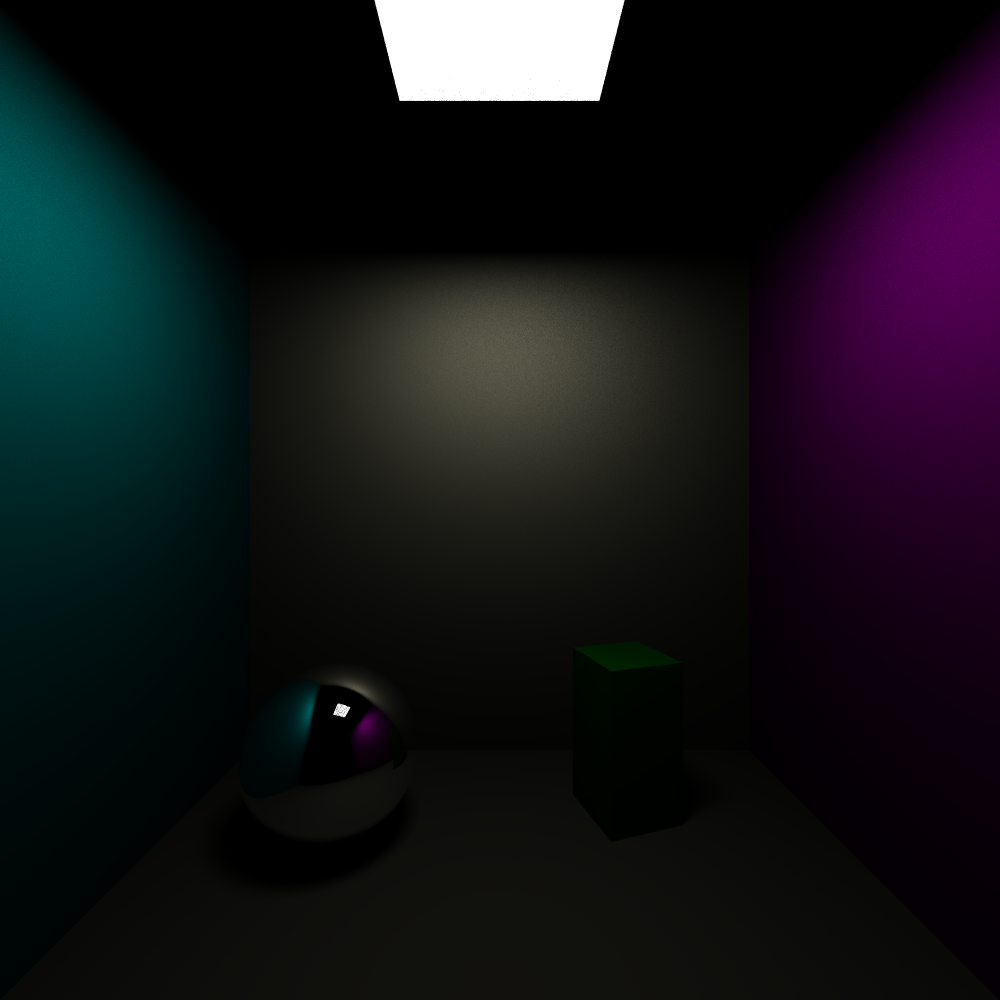
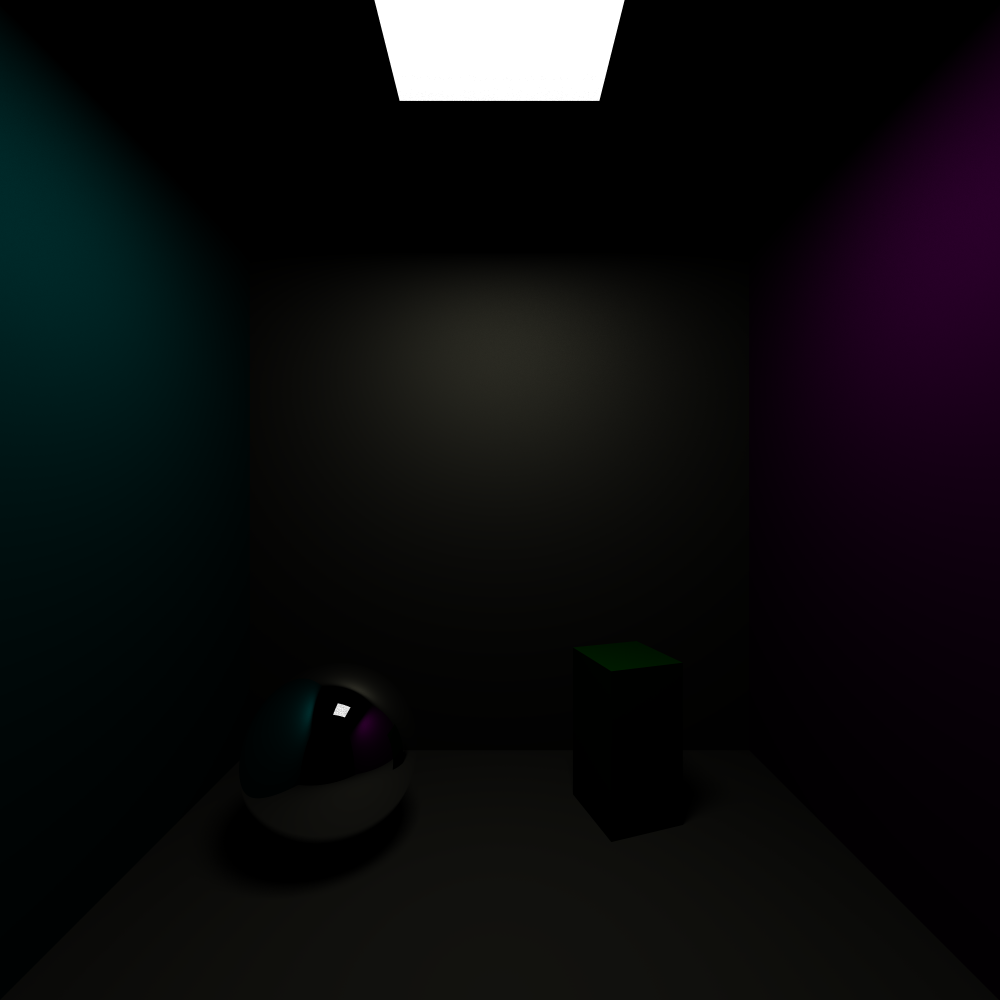
fix to light calculation

diff --git a/src/tracer/illumination.rs b/src/tracer/illumination.rs
@@ -10,10 +10,12 @@ pub fn illuminate(texture: &Texture, h: &Hit, scene: &Scene) -> DVec3 {
 
     color * scene.ambient +
         /* TODO */
-        3.0 *
+        6.0 *
         scene.rays_to_light(h).iter().map(|r: &Ray| {
             /* TODO */
-            _diffuse_specular(color, h, r.dir) / scene.objects[0].pdf(r)
+            h.object.scatter_pdf(r, h)
+                * _diffuse_specular(color, h, r.dir)
+                / scene.objects[0].pdf(r)
         }).fold(DVec3::ZERO, |acc, c| acc + c) / SHADOW_RAYS as f64
 }
 

diff --git a/src/tracer/object.rs b/src/tracer/object.rs
@@ -50,6 +50,11 @@ pub trait Object: Sync {
     fn material(&self) -> &Material;
     fn area(&self) -> f64;
 
+    fn scatter_pdf(&self, r: &Ray, h: &Hit) -> f64 {
+        let cos_theta = h.norm.dot(r.dir);
+        if cos_theta < 0.0 { 0.0 } else { cos_theta / PI }
+    }
+
     /* default pdf, uniformly at random from surface. */
     fn pdf(&self, r: &Ray) -> f64 {
         // needs intersection point only with light

diff --git a/src/consts.rs b/src/consts.rs
@@ -4,7 +4,7 @@ use crate::DVec3;
 pub const EPSILON: f64 = 0.001;
 
 /* number of shadow rays per intersection point */
-pub const SHADOW_RAYS: usize = 4*4;
+pub const SHADOW_RAYS: usize = 3*3;
 
 /* refraction pub constant of glass */
 pub const ETA: f64 = 1.5;

diff --git a/src/renderer.rs b/src/renderer.rs
@@ -6,7 +6,7 @@ use crate::tracer::scene::Scene;
 use crate::tracer::camera::Camera;
 use rayon::iter::{ParallelIterator, IntoParallelIterator};
 
-type PxSampler = UniformSampler;
+type PxSampler = JitteredSampler;
 
 pub fn _render(
     img_height: usize,
